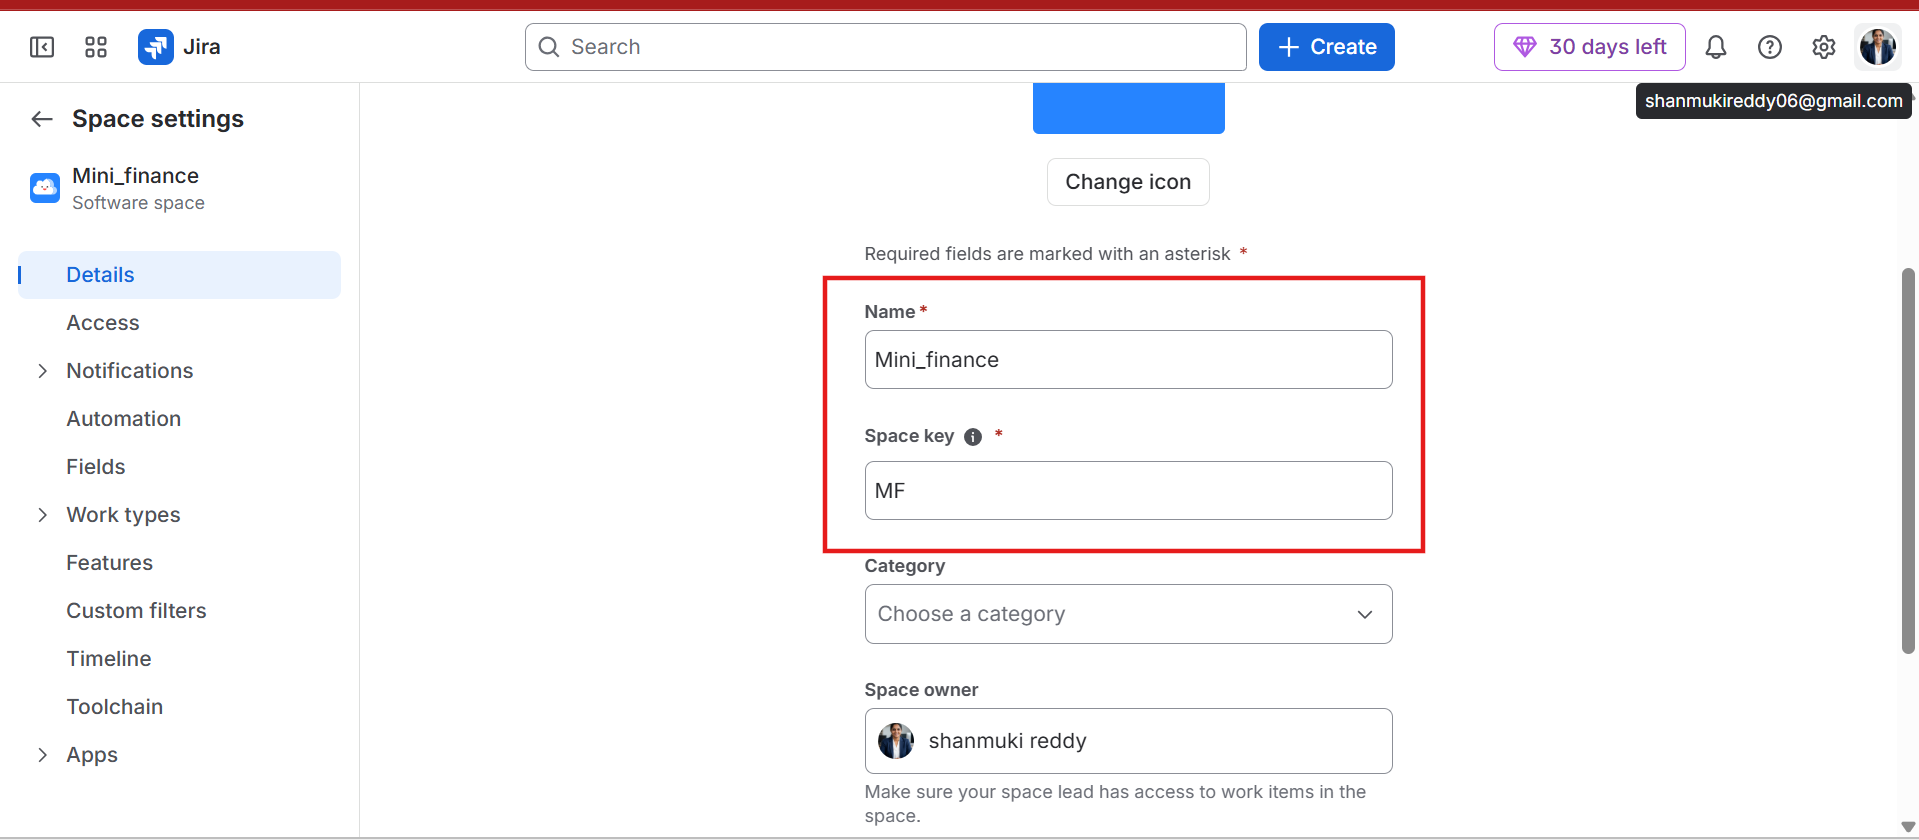
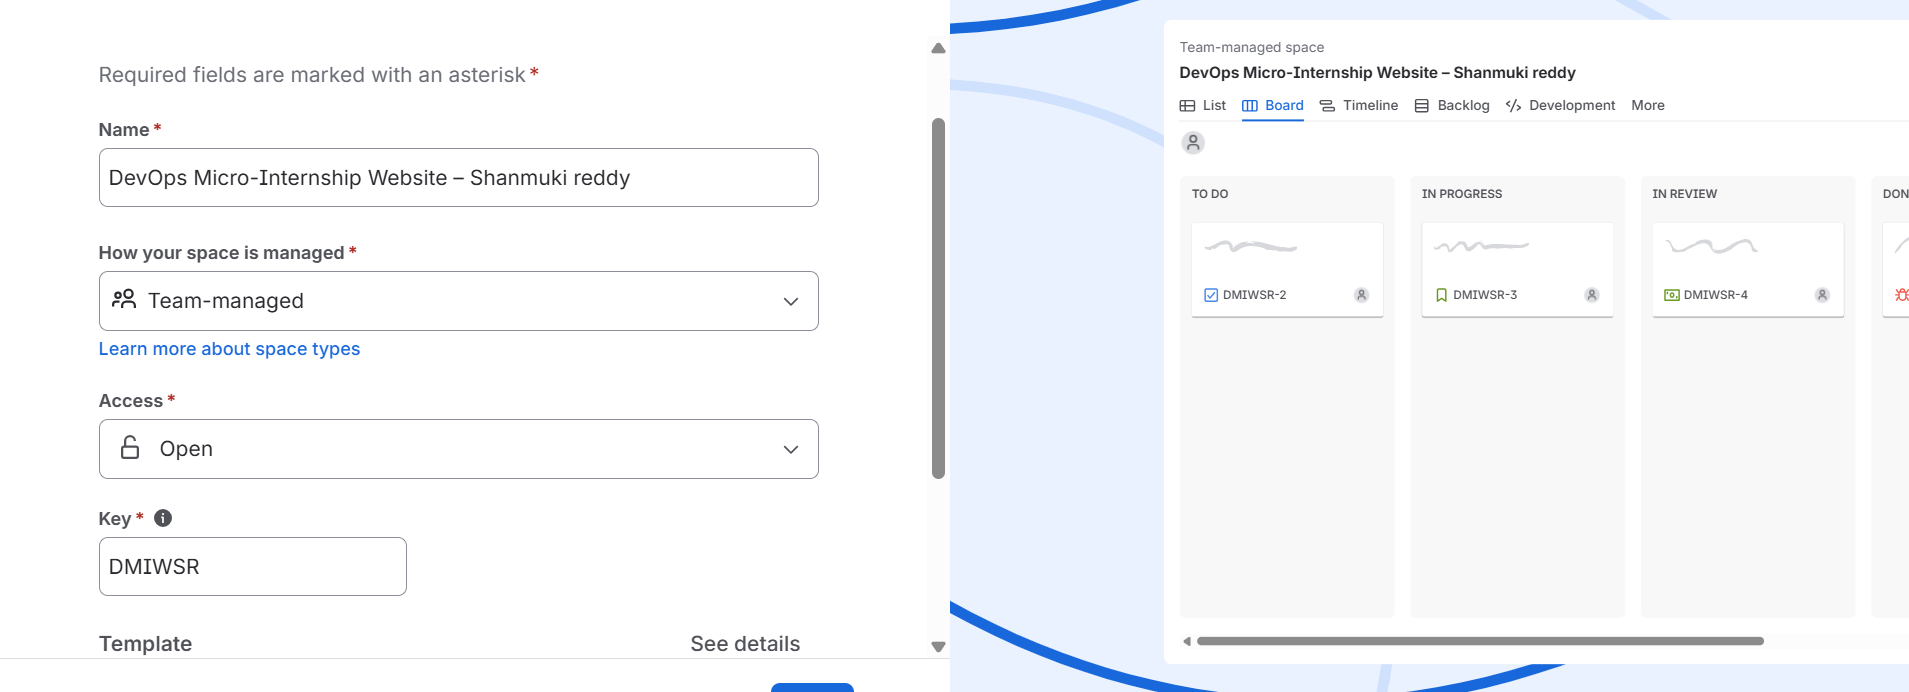
week-05

diff --git a/week-05-devops-lifecycle/assignment-02-stand-up-scrum-in-jira-for-dmi-website.md b/week-05-devops-lifecycle/assignment-02-stand-up-scrum-in-jira-for-dmi-website.md
@@ -20,7 +20,7 @@ Create a private, team-managed Scrum project named `DevOps Micro-Internship Webs
 
 #### Screenshot 1 — Project confirmation or project sidebar showing the project name and key
 
-Add your screenshot here.
+![alt text](screenshots/DMI_project.png)
 
 ---
 
@@ -34,7 +34,7 @@ Create the Epic `Polish DMI Website UI & Deploy` to group the website UI and dep
 
 #### Screenshot 2 — Backlog showing the Epic panel enabled and the Epic visible
 
-Add your screenshot here.
+![alt text](screenshots/epic1.png)
 
 ---
 
@@ -48,13 +48,13 @@ Create all six required Stories (S1–S6) under the Epic, each with its descript
 
 #### Screenshot 3 — Backlog showing the Epic and all six Stories under it
 
-Add your screenshot here.
+![alt text](screenshots/stories.png)
 
 ---
 
 #### Screenshot 4 — One opened Story showing its Story point estimate, acceptance criteria, and label
 
-Add your screenshot here.
+![alt text](screenshots/Update_header.png)
 
 ---
 
@@ -68,14 +68,13 @@ Break down S2 (Primary button color refresh) and S4 (Footer with version and dat
 
 #### Screenshot 5 — S2 showing all four Sub-tasks
 
-Add your screenshot here.
+![alt text](screenshots/S2-subtasks.png)
 
 ---
 
 #### Screenshot 6 — S4 showing all four Sub-tasks
 
-Add your screenshot here.
-
+![alt text](screenshots/S4-subtasks.png)
 ---
 
 # Task 5 — Tag Stories by Workstream
@@ -87,8 +86,8 @@ Apply the `frontend` label to S1, S2, S3, S5, and S6, and the `devops` label to 
 ### Evidence
 
 #### Screenshot 7 — Backlog or Story details showing labels applied to at least two visible Stories
-
-Add your screenshot here.
+![alt text](screenshots/Assg2-task5-01.png)
+![alt text](screenshots/Assg2-task5-02.png)
 
 ---
 
@@ -102,7 +101,7 @@ Create a one-week Sprint, move two or three Stories into it (approximately 3–5
 
 #### Screenshot 8 — Sprint 1 before starting, showing the selected Stories and Story Points
 
-Add your screenshot here.
+![alt text](screenshots/Sprint_1_before_starting.png)
 
 ---
 
